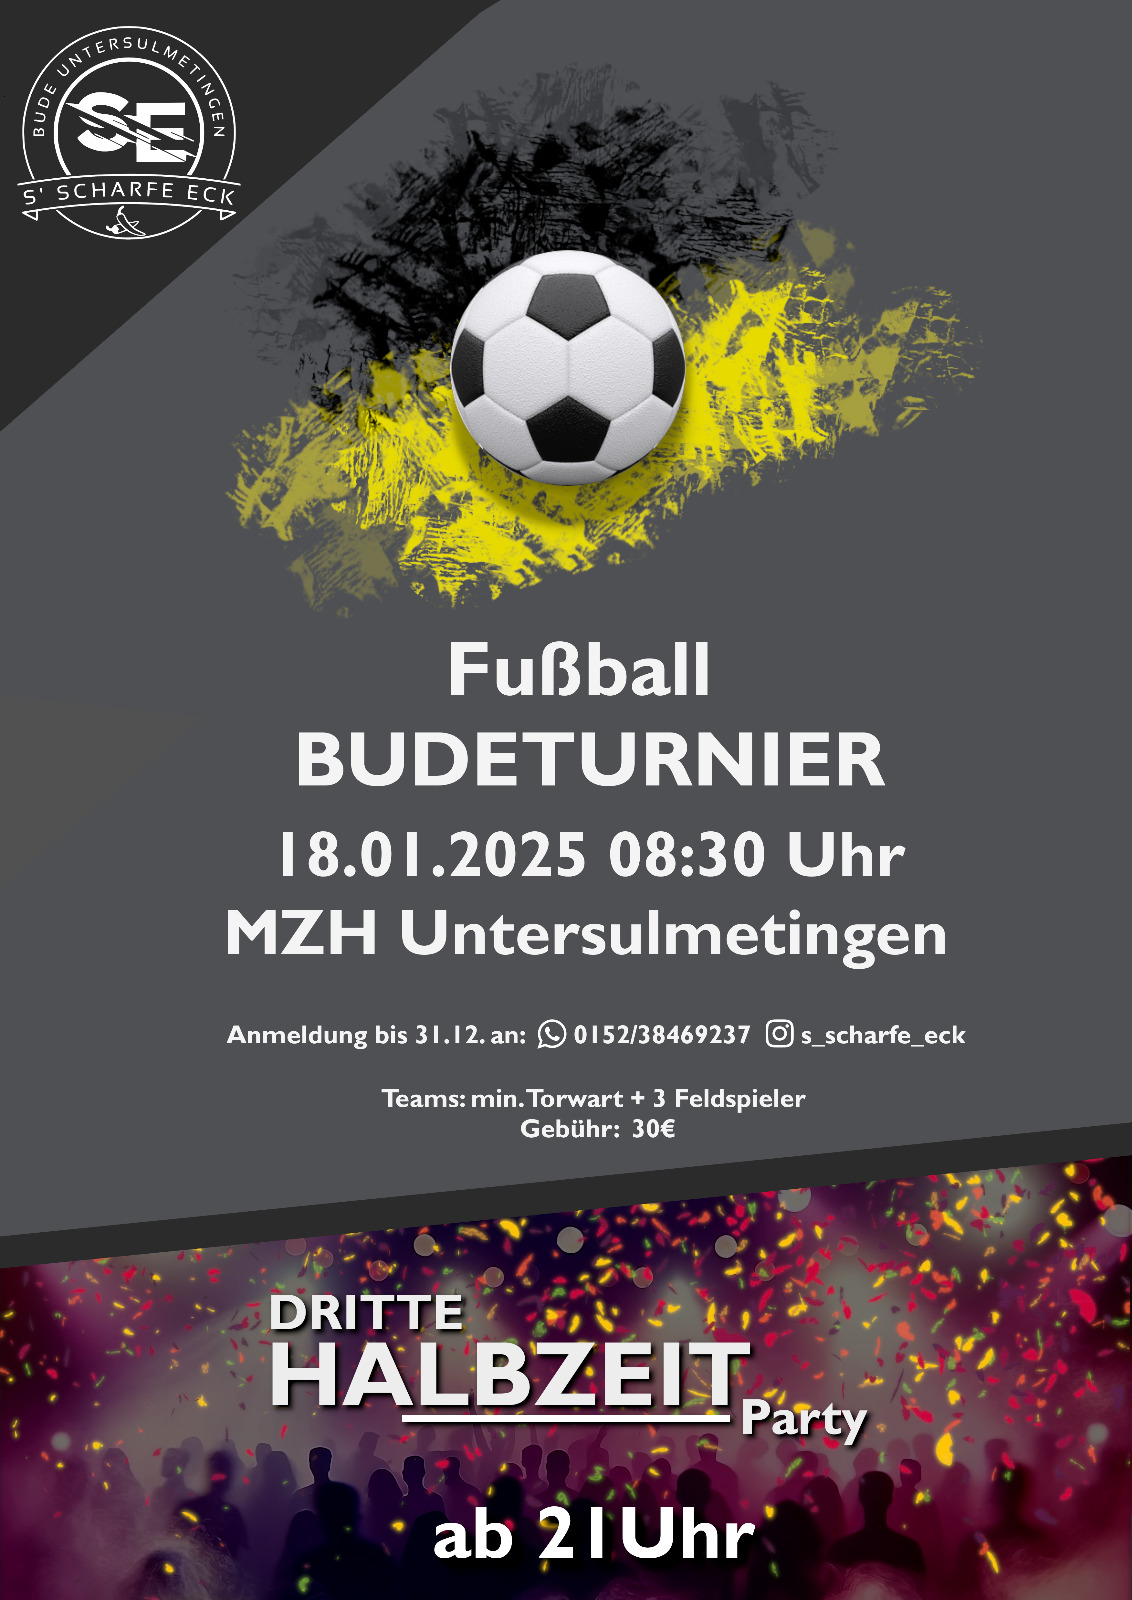
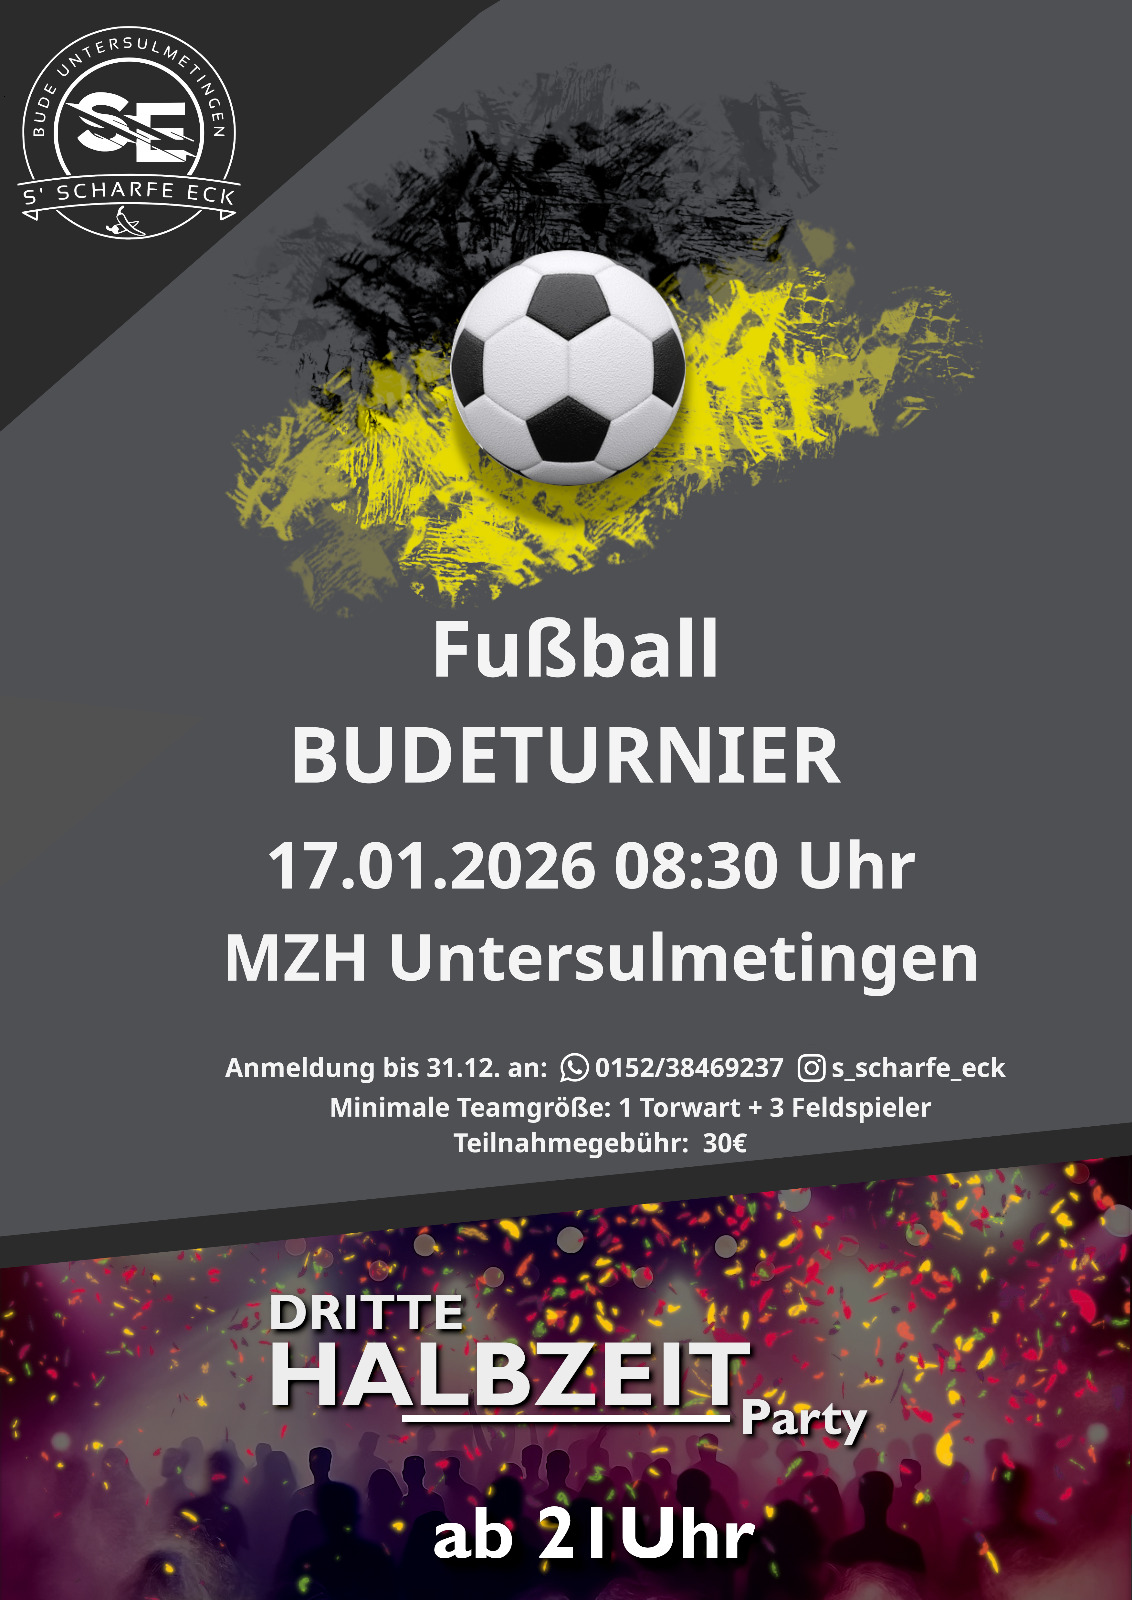
Update Dates and Posters to 2026 and fixed spelling error "Schafe Eck"

Changed region(s): [[0.1855, 0.375, 0.8966, 0.7188]]

diff --git a/src/models/db.js b/src/models/db.js
@@ -75,7 +75,7 @@ async function insertDefaultUser(db) { // Create a default user for the database
 
 async function insertDefaultValues(db) { // Insert default values into the new database
 
-  const defaultStartTime = new Date('2024-01-20T08:00:00.000Z'); //in unserer Zeitzone: 20.01.2024 09:00 Uhr
+  const defaultStartTime = new Date('2026-01-17T08:00:00.000Z'); //in unserer Zeitzone: 17.01.2026 08:00 Uhr
   const defaultTimeBetweenGames = 2 * 60 * 1000; 
   const defaultGameDurationGroupStage = 8 * 60 * 1000; 
   const defaultGameDurationQuarterfinals = 10 * 60 * 1000;
@@ -179,7 +179,7 @@ function backupDb(dbName, backupPathArchive, backupPathJSON, withJSON = false) {
 
 function restoreDb(backupFile) {  
   // Den Namen der Original-Datenbank aus dem Dateinamen extrahieren
-  const originalDbName = path.basename(backupFile, '.gz').split('_')[0];  // Z.B. TournamentDB_20250115_183347 -> TournamentDB
+  const originalDbName = path.basename(backupFile, '.gz').split('_')[0];  // Z.B. TournamentDB_20260115_183347 -> TournamentDB
   const sanitizedDbName = originalDbName;  // Der Name der neuen DB bleibt der gleiche wie der alte
 
   console.log(`Sanitized DB-Name für Wiederherstellung: ${sanitizedDbName}`);

diff --git a/src/controllers/MainSettingController.js b/src/controllers/MainSettingController.js
@@ -8,7 +8,7 @@ const path = require('path');
 
 commonMiddleware(router, ['admin']); // Only admins can access the main settings page
 
-const defaultStartTime = new Date('2024-01-20T08:00:00.000Z'); //in unserer Zeitzone: 20.01.2024 09:00 Uhr
+const defaultStartTime = new Date('2026-01-17T08:00:00.000Z'); //in unserer Zeitzone: 17.01.2026 08:00 Uhr
 const defaultTimeBetweenGames = 2 * 60 * 1000; 
 const defaultGameDurationGroupStage = 8 * 60 * 1000; 
 const defaultGameDurationQuarterfinals = 10 * 60 * 1000;
